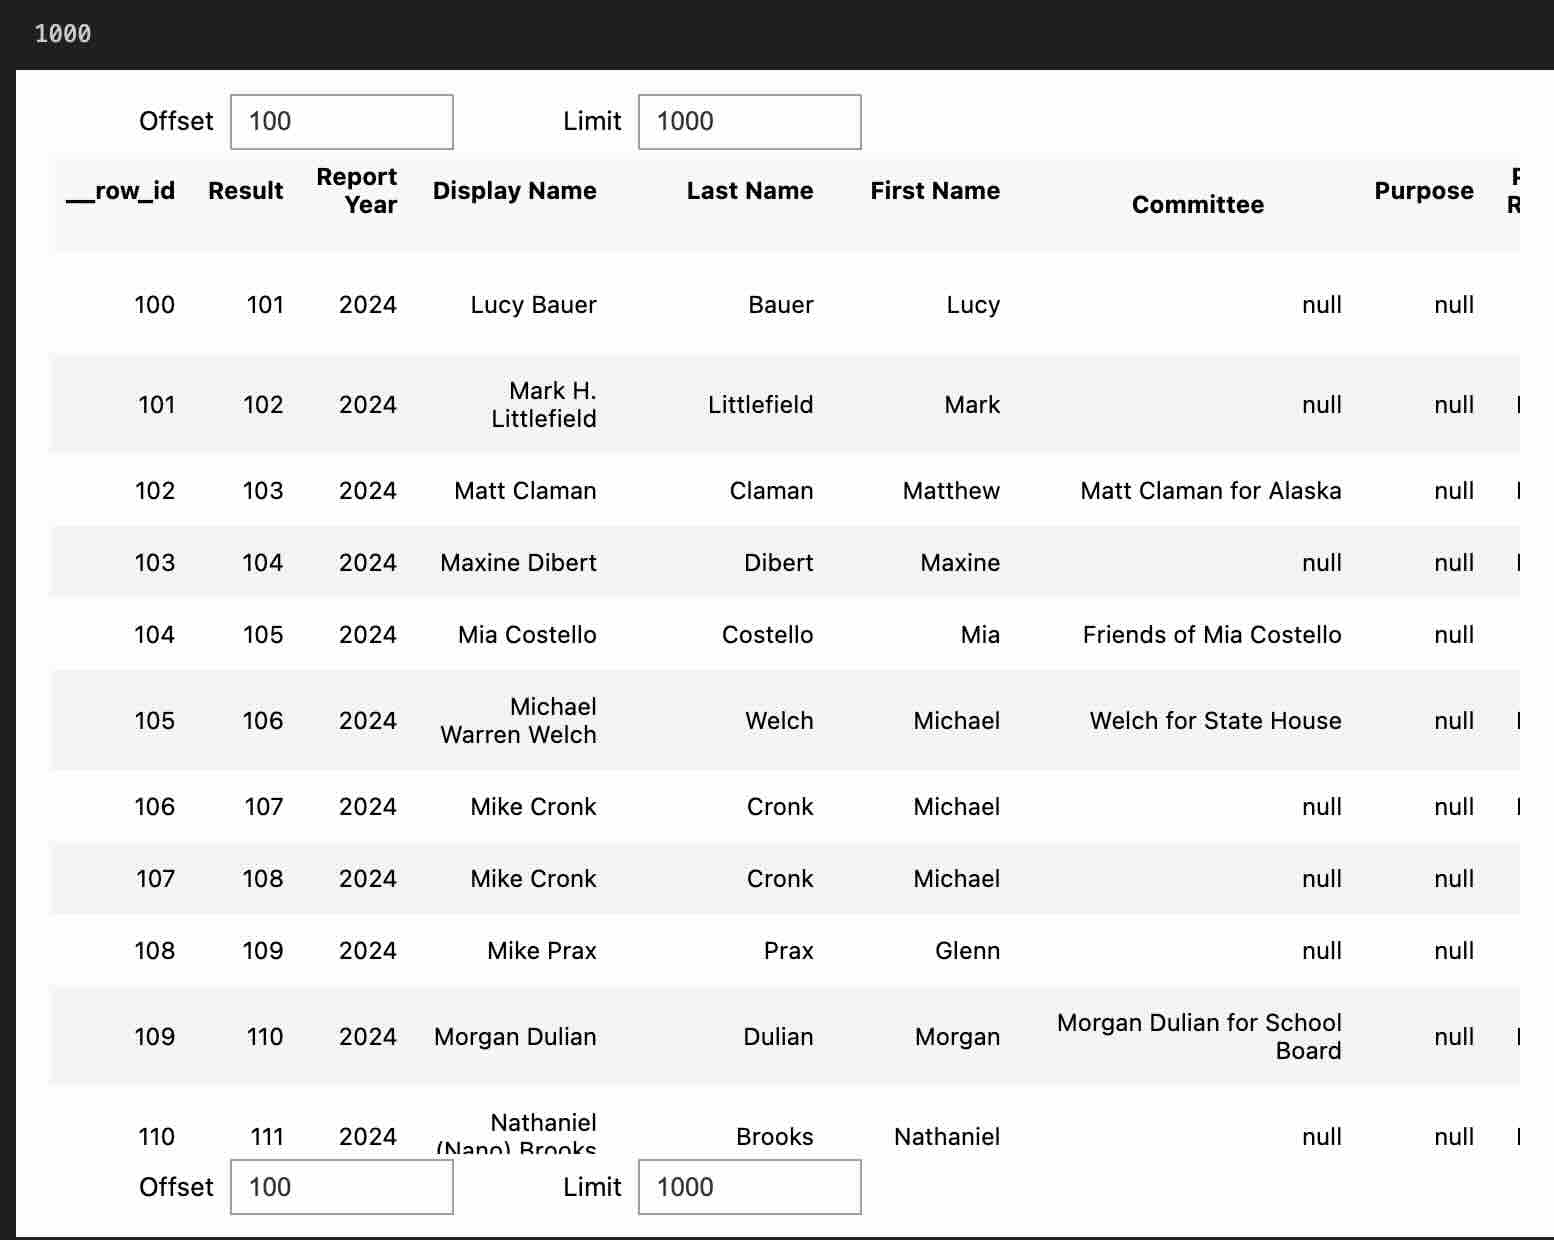
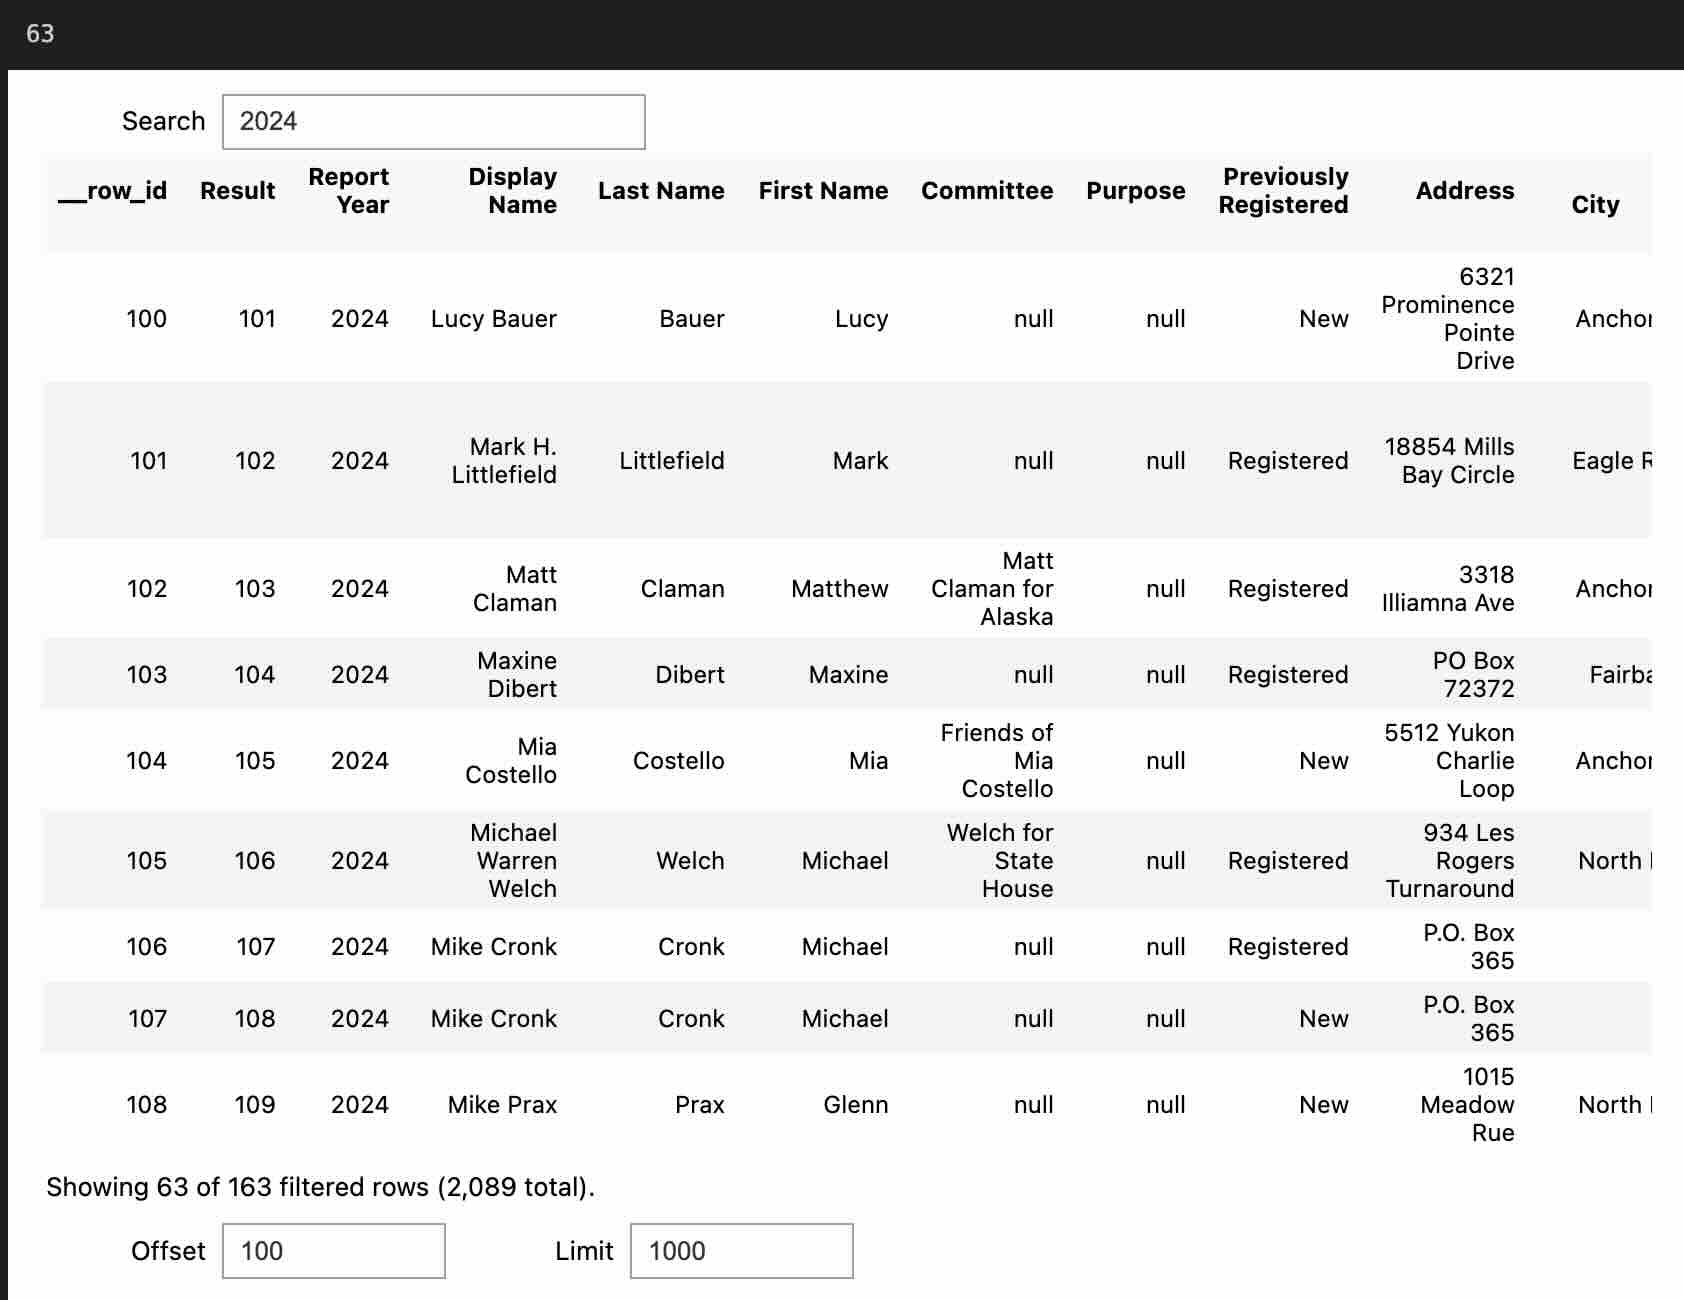
feat: add row count indicator

diff --git a/src/ibis_widget/_widget.py b/src/ibis_widget/_widget.py
@@ -61,6 +61,7 @@ class IbisWidget(traitlets.HasTraits):
             description="Search",
             layout=wid.Layout(width="300px"),
         )
+        self._row_count_widget = wid.HTML(self._row_count_summary)
         self._offset_widget = wid.BoundedIntText(
             value=offset,
             min=0,
@@ -119,13 +120,21 @@ class IbisWidget(traitlets.HasTraits):
         return int(self.table.count().execute())
 
     @property
+    def _n_rows_filtered(self) -> int:
+        return int(self.filtered.count().execute())
+
+    @property
+    def _row_count_summary(self) -> str:
+        return f"Showing {self._n_rows_result:,} of {self._n_rows_filtered:,} filtered rows ({self._n_rows_total:,} total)."
+
+    @property
     def _n_rows_result(self) -> int:
         return int(self.result_table.count().execute())
 
     def _update_datagrid(self):
-        n_filtered = self.filtered.count().execute()
-        if n_filtered < self.offset:
+        if self._n_rows_filtered < self.offset:
             self.offset = 0
+        self._row_count_widget.value = self._row_count_summary
         self._datagrid.records = self._result_records
         self._datagrid.schema = self._result_schema
 
@@ -137,8 +146,7 @@ class IbisWidget(traitlets.HasTraits):
     def _repr_mimebundle_(self, include=None, exclude=None):
         controls = self._search_widget
         pagination = wid.HBox([self._offset_widget, self._limit_widget])
-        vbox = wid.VBox([controls, self._datagrid, pagination])
-
+        vbox = wid.VBox([controls, self._datagrid, self._row_count_widget, pagination])
         base = vbox._repr_mimebundle_(include=include, exclude=exclude)
         return {**base, "text/plain": repr(self)}
 

diff --git a/README.md b/README.md
@@ -1,6 +1,6 @@
 # Ibis-Widget
 
-A lightweight Jupyterwidget for viewing (and later filtering, sorting, searching)
+A lightweight Jupyterwidget for searching and viewing (and later filtering, sorting, etc)
 [Ibis tables](https://github.com/ibis-project/ibis)
 
 No dependencies besides `anywidget` and `ibis-framework`
@@ -18,14 +18,15 @@ t = ibis.read_csv("https://github.com/NickCrews/apoc-data/releases/download/2024
 t = t.cache()
 w = IbisWidget(t)
 w.offset = 100
+w.search = "2024"
 w.limit = 1000
 print(w.result_table.count().execute())
 w
 ```
 
-This renders a HTML interface with scrolling, pagination, etc
+This renders a HTML interface with search, scrolling, pagination, etc
 
-![An HTML table interface with "offset" and "limit" controls](docs/readme_screenshot.jpg)
+![An HTML table interface](docs/readme_screenshot.jpg)
 
 You can also do some monkeypatching for a better experience:
 
